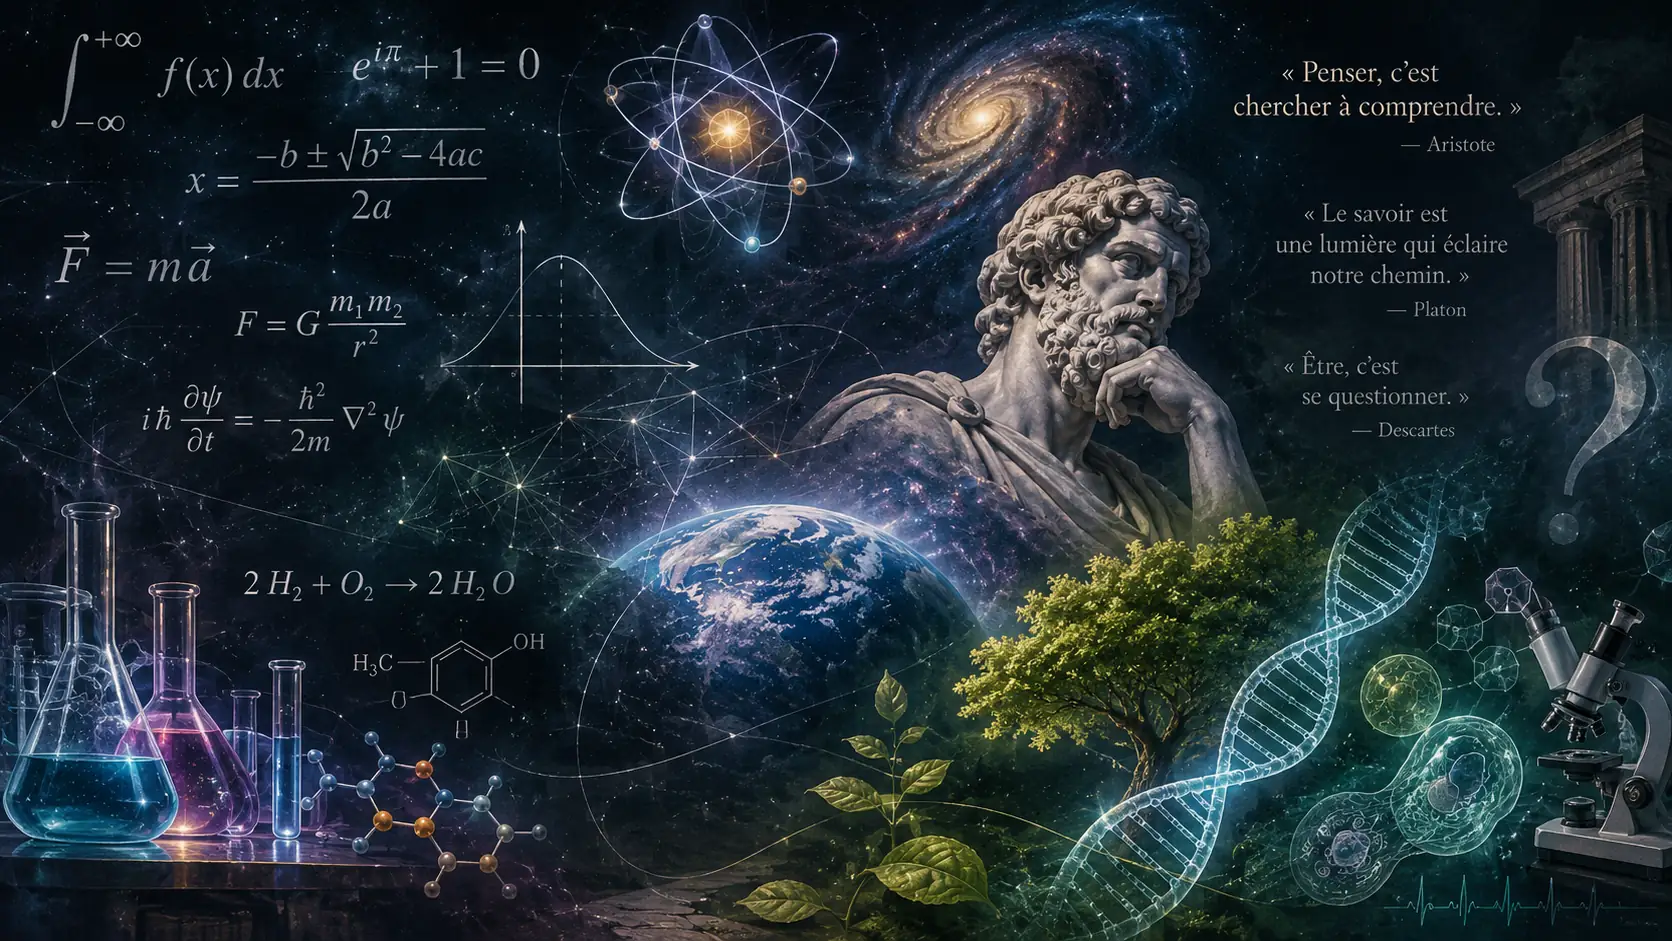
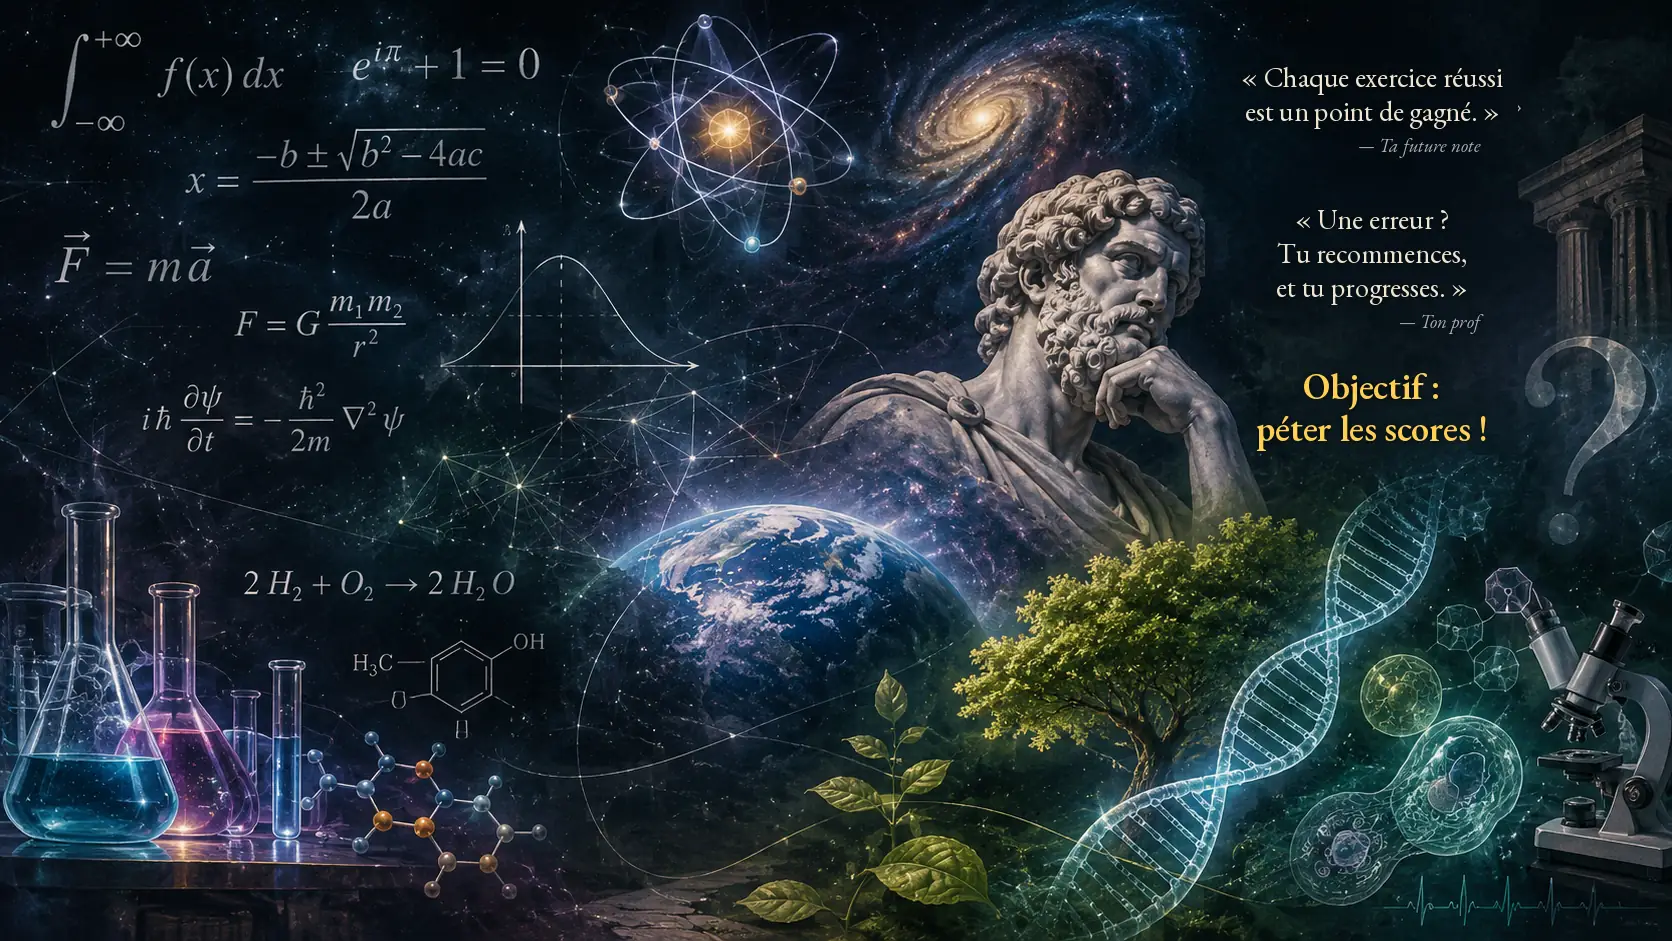
Fond d'accueil : phrases de motivation à la place des fausses citations ; mentions légales remplies
Claude-Session: https://claude.ai/code/session_01Wy4WEpHvkNMSNSuBcGscwp

Changed region(s): [[0.7464, 0.3698, 0.9019, 0.4931], [0.7464, 0.0616, 0.9019, 0.1849], [0.7464, 0.2157, 0.9019, 0.339]]

diff --git a/style.css b/style.css
@@ -135,7 +135,7 @@ footer .wrap{display:flex;gap:8px;justify-content:center;flex-wrap:wrap}
 /* Image de fond de l'accueil (réglée par la ligne « fond: » de contenu/accueil.md) */
 body.avec-fond{background:#0b1024}
 body.avec-fond::before{content:"";position:fixed;inset:0;z-index:0;pointer-events:none;
-  background:linear-gradient(180deg,rgba(6,10,28,.72) 0,rgba(6,10,28,.5) 45%,rgba(6,10,28,.78) 100%),var(--fond) center/cover no-repeat}
+  background:linear-gradient(180deg,rgba(6,10,28,.72) 0,rgba(6,10,28,.5) 45%,rgba(6,10,28,.78) 100%),var(--fond) 85% center/cover no-repeat}
 body.avec-fond::after{display:none}
 body.avec-fond main h1,body.avec-fond .intro,body.avec-fond footer,body.avec-fond footer a{color:#fff}
 body.avec-fond .intro{text-shadow:0 1px 3px rgba(0,0,0,.8)}

diff --git a/contenu/mentions-legales.md b/contenu/mentions-legales.md
@@ -2,10 +2,10 @@
 
 ## Éditeur du site
 
-Ce site est édité à titre personnel et non commercial par **[TON PRÉNOM ET NOM]**, [ta fonction, par exemple : assistant d'éducation].
-Contact : **[TON ADRESSE E-MAIL DE CONTACT]**
+Ce site est édité à titre personnel et non commercial par **Kendji**, assistant d'éducation, pour ses élèves.
+Contact : en parlant directement à Kendji au lycée.
 
-Directeur de la publication : [TON PRÉNOM ET NOM].
+Directeur de la publication : Kendji.
 
 ## Hébergeur
 
@@ -13,7 +13,7 @@ GitHub Pages, service de GitHub, Inc., 88 Colin P. Kelly Jr. Street, San Francis
 
 ## Propriété des contenus
 
-Les cours, exercices et QCM sont rédigés par l'éditeur pour ses élèves. Les polices (Fredoka, Nunito) sont sous licence SIL Open Font License ; les outils d'affichage (Marked, KaTeX) sont sous licence MIT. Voir le fichier `LICENCES.md`.
+Les cours, exercices et QCM sont rédigés par l'éditeur pour ses élèves. L'image de fond de l'accueil a été fournie par l'éditeur ; les phrases qui y figurent sont des encouragements, pas des citations d'auteurs. Les polices (Fredoka, Nunito) sont sous licence SIL Open Font License ; les outils d'affichage (Marked, KaTeX) sont sous licence MIT. Voir le fichier `LICENCES.md`.
 
 # Confidentialité
 
@@ -23,6 +23,6 @@ Ta progression (meilleur score aux QCM, flashcards que tu connais) est enregistr
 
 Comme tout hébergeur, GitHub peut enregistrer des données techniques de connexion (adresse IP) pour la sécurité de son service : voir la [déclaration de confidentialité de GitHub](https://docs.github.com/fr/site-policy/privacy-policies/github-general-privacy-statement).
 
-Pour toute question, écris à [TON ADRESSE E-MAIL DE CONTACT]. Tu peux aussi saisir la [CNIL](https://www.cnil.fr).
+Pour toute question, parle directement à Kendji au lycée. Tu peux aussi saisir la [CNIL](https://www.cnil.fr).
 
 *Dernière mise à jour : 23 novembre 2026.*

diff --git a/GUIDE.md b/GUIDE.md
@@ -184,6 +184,6 @@ Et tu peux toujours me demander : « ajoute un chapitre sur … en SVT », je te
 
 ---
 
-## 7. À faire une seule fois
+## 7. Mentions légales
 
-Ouvre `contenu/mentions-legales.md` et remplace les passages entre crochets `[ … ]` par ton nom, ta fonction et une adresse e-mail de contact. C'est obligatoire pour un site public en France.
+Elles sont dans `contenu/mentions-legales.md` (éditeur : Kendji, contact au lycée). Si tu veux ajouter une adresse e-mail de contact, utilise plutôt une adresse dédiée au site que ton adresse personnelle.

diff --git a/contenu/accueil.md b/contenu/accueil.md
@@ -5,3 +5,5 @@ fond: images/fond-accueil.webp
 Bienvenue ! Choisis ta matière : pour chaque chapitre tu trouveras **le cours en résumé**, des **exercices corrigés**, un **QCM** pour te tester et des **flashcards** pour mémoriser.
 
 Ta progression reste sur ton appareil : rien n'est envoyé, pas besoin de compte.
+
+**Objectif : péter les scores ! 🚀**
